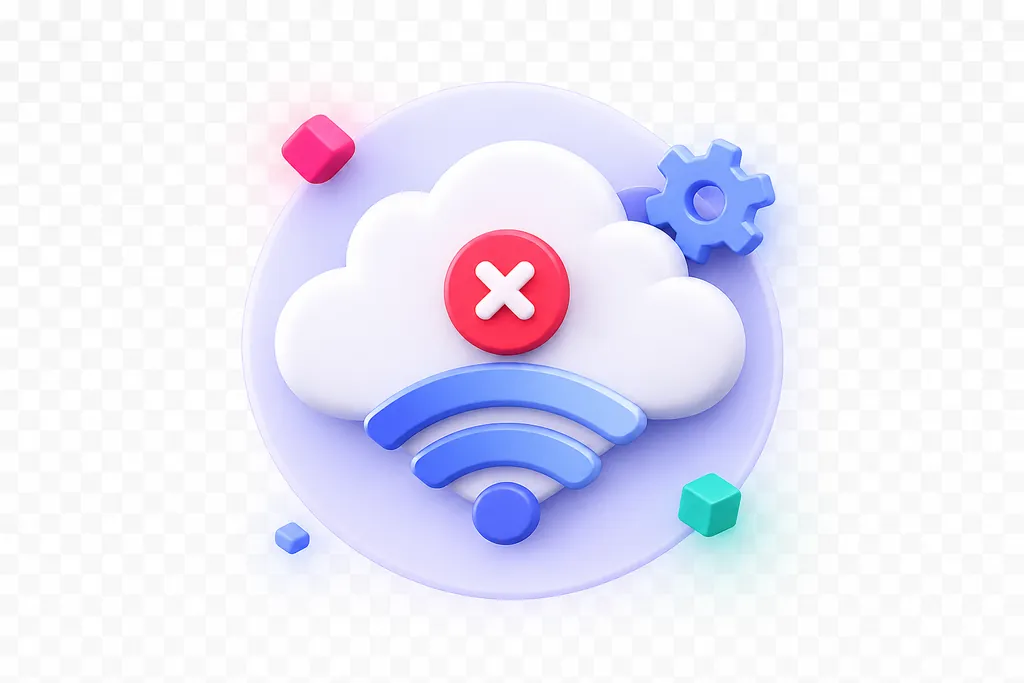
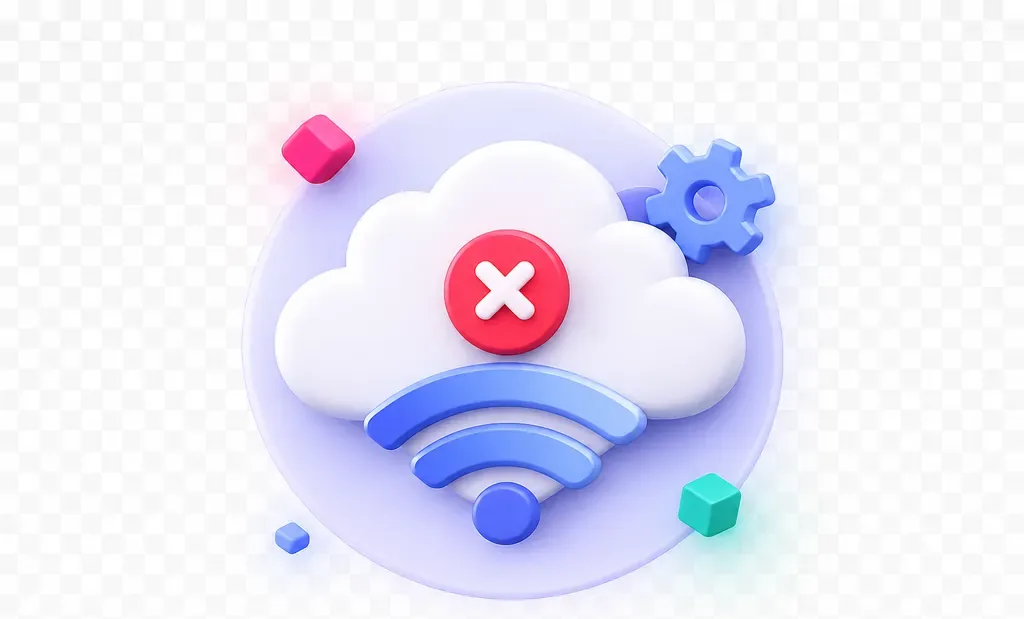
fix(web): trim transparent padding from error illustrations
The 3D illustration webps carried large transparent margins, so the
artwork rendered small inside its frame. Trim each (sharp .trim) and
update the registry width/height to the cropped dimensions so the art
fills the container and next/image keeps the right aspect ratio.
e.g. 404 820x721 -> 720x652, 500 1024x683 -> 616x557.

Changed region(s): [[0.25, 0.1842, 0.7812, 0.9822], [0.25, 0.1535, 0.5938, 0.3683], [0.25, 0.3683, 0.3438, 0.5218]]

diff --git a/apps/web/src/components/feedback/state-presets.ts b/apps/web/src/components/feedback/state-presets.ts
@@ -41,8 +41,8 @@ export interface StatePreset {
 export const STATE_PRESETS: Record<StateVariant, StatePreset> = {
   "not-found": {
     illustration: "/error/404.webp",
-    width: 820,
-    height: 721,
+    width: 720,
+    height: 652,
     alt: "",
     title: "Page Not Found",
     description: "The page you're looking for doesn't exist or has moved.",
@@ -50,8 +50,8 @@ export const STATE_PRESETS: Record<StateVariant, StatePreset> = {
   },
   "server-error": {
     illustration: "/error/500.webp",
-    width: 1024,
-    height: 683,
+    width: 616,
+    height: 557,
     alt: "",
     title: "Something Went Wrong",
     description: "An unexpected error occurred on our end. Please try again.",
@@ -59,8 +59,8 @@ export const STATE_PRESETS: Record<StateVariant, StatePreset> = {
   },
   maintenance: {
     illustration: "/error/503.webp",
-    width: 1024,
-    height: 683,
+    width: 1021,
+    height: 679,
     alt: "",
     title: "We'll Be Right Back",
     description: "This service is temporarily unavailable for maintenance.",
@@ -68,8 +68,8 @@ export const STATE_PRESETS: Record<StateVariant, StatePreset> = {
   },
   "bad-request": {
     illustration: "/error/400.webp",
-    width: 1024,
-    height: 683,
+    width: 546,
+    height: 565,
     alt: "",
     title: "That Request Didn't Work",
     description: "Something about that request wasn't valid. Try again.",
@@ -78,7 +78,7 @@ export const STATE_PRESETS: Record<StateVariant, StatePreset> = {
   offline: {
     illustration: "/error/no-internet.webp",
     width: 1024,
-    height: 683,
+    height: 619,
     alt: "",
     title: "You're Offline",
     description: "Check your internet connection and try again.",
@@ -86,8 +86,8 @@ export const STATE_PRESETS: Record<StateVariant, StatePreset> = {
   },
   forbidden: {
     illustration: "/error/403.webp",
-    width: 1024,
-    height: 683,
+    width: 511,
+    height: 482,
     alt: "",
     title: "Access Denied",
     description: "You don't have permission to view this.",
@@ -95,8 +95,8 @@ export const STATE_PRESETS: Record<StateVariant, StatePreset> = {
   },
   "rate-limited": {
     illustration: "/error/429.webp",
-    width: 1024,
-    height: 683,
+    width: 482,
+    height: 510,
     alt: "",
     title: "Slow Down a Moment",
     description: "Too many requests in a short time. Please wait and retry.",
@@ -113,8 +113,8 @@ export const STATE_PRESETS: Record<StateVariant, StatePreset> = {
   },
   "no-results": {
     illustration: "/error/empty-search.webp",
-    width: 1024,
-    height: 683,
+    width: 549,
+    height: 487,
     alt: "",
     title: "No results found",
     description: "Try a different search or clear your filters.",
@@ -122,8 +122,8 @@ export const STATE_PRESETS: Record<StateVariant, StatePreset> = {
   },
   "load-failed": {
     illustration: "/error/offline.webp",
-    width: 1024,
-    height: 683,
+    width: 513,
+    height: 492,
     alt: "",
     title: "Couldn't load this",
     description: "We hit a problem loading this content. Please try again.",
@@ -131,8 +131,8 @@ export const STATE_PRESETS: Record<StateVariant, StatePreset> = {
   },
   success: {
     illustration: "/error/success.webp",
-    width: 1024,
-    height: 683,
+    width: 515,
+    height: 501,
     alt: "",
     title: "Thank you!",
     description: "We've received your submission and will be in touch.",
